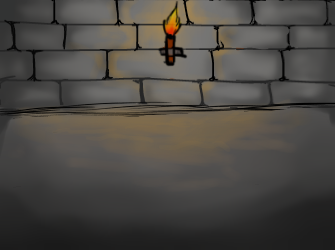
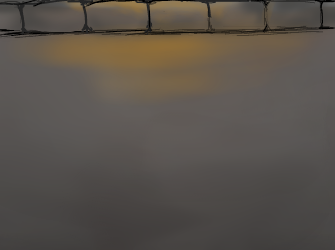
changed the corridor and added new boundries and new screen

diff --git a/Abducted.py b/Abducted.py
@@ -77,11 +77,6 @@ def Startaction(): #this lets the user click on the start button
                 if (mouse[0] > 470 and mouse[0] < 810) and (mouse[1] > 355 and mouse[1] < 445):#The range of which the mouse clicks 
                     print ("Hello") #just there to check if it works and still on the screen
                     screen.fill(colr)
-                    text("Don't click the Screen! ", 100,300,1080,150, 100) 
-                    pygame.display.update()
-                    timer.tick(30) #updates the screen with a text to tell the user to not click the screen
-                    pygame.time.delay(1500) #puts the code on  pause for a bit of time
-                    screen.fill(colr)
                     pygame.draw.rect(screen, recc,[250,50,335,400],5) #Draws rectangles on the screen
                     global ChrF # turns the ChrF var into a global var that other functions can use
                     ChrF = pygame.image.load('Character - GirlV2.png') #Loads the image of female card 
@@ -229,8 +224,9 @@ def tutorial(): #starts the game and places the setting
 
 def movement(): #this the movement 
     bound = 0
-    x = 615 #location of the x and y axis of the character
-    y = 259
+    if bound == 0:
+        x = 615 #location of the x and y axis of the character
+        y = 259    
     xc = 0 #this is for the movement of the character
     yc = 0
     start = True
@@ -263,8 +259,14 @@ def movement(): #this the movement
         if x  > 810 and x  < 910 and y > 480 and y  < 600 and bound == 0:
             bound +=1
             print ("unbound")
-            
-        if bound == 0:
+        if x >= 1280:
+            x = 35
+            bound = 2
+            screen.fill(colr)
+            pygame.draw.rect(screen, recc, [35,220, 1100, 250])
+            Chr( 35, y)
+            pygame.display.flip()
+        if bound == 0 or bound == 2:
             if x <= 315: #these if statement are for the boundry of the charcter, BTW the top left corner is (0,0)
                 x += 7
             if  x >= 830:
@@ -273,30 +275,34 @@ def movement(): #this the movement
                 y += 7
             if  y >= 500:
                 y -= 7
-        if bound >= 1:
+        if bound == 1:
             if x <= 315: #these if statement are for the boundry of the charcter, BTW the top left corner is (0,0)
                 x += 7
-            if x >= 830 and y < 220 and y > 470:
-                if y < 220:
+            if x >= 830 and y >= 345:
+                if y  >= 345:
+                   y -= 7
+            if x >= 830 and y <= 230:
+                if y <=230:
                     y += 7
-                elif y > 470:
-                    y -= 14
-            if x >= 830 and y >470:
+            if x >= 830 and y >350:
                 x -=7
             if  y <= 180:
                 y += 7
             if  y >= 500:
                 y -= 7
+        if bound <= 1: 
+            screen.fill(colr)
+            screen.blit( corridor, (945, 220)) 
+            screen.blit( startroom, (315, 35))   
+            Chr( x, y)
+            screen.blit(key, (820, 510))
+            pygame.draw.rect(screen, sc, [820, 510, 80, 90], 5)
+            pygame.display.flip()
+        if bound == 2:
+            screen.fill(colr)
+            pygame.draw.rect(screen, recc, [35,220, 1100, 250])
+            Chr( x, y)
+            pygame.display.flip()
             
-        screen.fill(colr)
-        screen.blit( corridor, (945, 220)) 
-        screen.blit( startroom, (315, 35))   
-        Chr( x, y)
-        screen.blit(key, (820, 510))
-        pygame.draw.rect(screen, sc, [820, 510, 80, 90], 5)
-        pygame.display.flip()
-        
-        
-       
 game()
 pygame.quit()   
